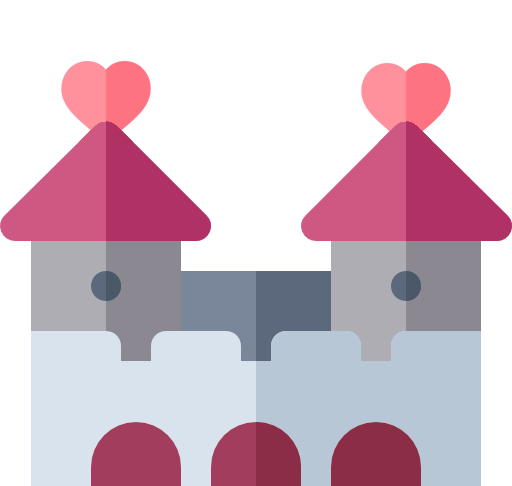
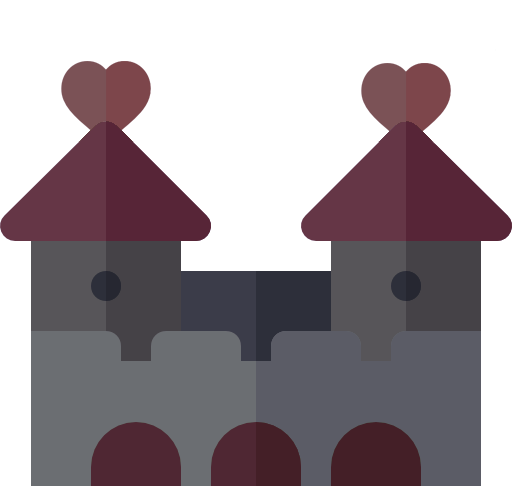
hatter new colours

diff --git a/hatter-music/index.html b/hatter-music/index.html
@@ -10,41 +10,44 @@
     <meta name="viewport" content="width=device-width, initial-scale=1" />
     <link rel="icon" type="image/png" href="mush.png" />
     <style>
-      body { margin:0; padding:0; color:#2A375C; -webkit-touch-callout: none; -webkit-user-select: none; -khtml-user-select: none; -moz-user-select: none; -ms-user-select: none; user-select: none; }
+      body { margin:0; padding:0; color:#bbb; background:#28232B; -webkit-touch-callout: none; -webkit-user-select: none; -khtml-user-select: none; -moz-user-select: none; -ms-user-select: none; user-select: none; }
       #main { position:absolute; width:380px; top:350px; left:calc(50% - 192px); margin-bottom:30px; line-height:11px; }
-      #main2 { width:100%; border:1px solid #38456B; overflow:hidden; -webkit-border-radius: 5px; -moz-border-radius: 5px; border-radius: 5px; }
-      .b1, .b2, .b3, .b4, .b5, .b6 { display:block; float:left; padding:10px 10px; overflow:hidden; font-size:12px !important; letter-spacing:1px !important; font-family:arial !important; border-bottom:1px solid #38456B; cursor:default; }
-      .b1, .b3, .b5 { width:calc(33% - 21px); background:#CFD4E3; border-right:1px solid #38456B; font-weight:600; }
-      .b2, .b4, .b6 { width:calc(67% - 20px); background:#f7f7f7; }
+      #main2 { width:100%; border:1px solid #1A171C; overflow:hidden; -webkit-border-radius: 5px; -moz-border-radius: 5px; border-radius: 5px; }
+      .b1, .b2, .b3, .b4, .b5, .b6 { display:block; float:left; padding:10px 10px; overflow:hidden; font-size:12px !important; letter-spacing:1px !important; font-family:arial !important; border-bottom:1px solid #1A171C; cursor:default; }
+      .b1, .b3, .b5 { width:calc(33% - 21px); background:#362D38; border-right:1px solid #1A171C; font-weight:600; }
+      .b2, .b4, .b6 { width:calc(67% - 20px); background:#44434A; }
       .b3, .b4 { border-bottom:0px; }
-      .b5, .b6 { background:#F5CED9; }
-      #main #hatter { width:120px; position:absolute; margin:-175px 0px 0px 230px; z-index:2; }
-      #main #castle { width:300px; position:absolute; margin:-285px 0px 0px 20px; z-index:1; }
+      .b5, .b6 { background:#472C36; }
+      #main #hatter { width:120px; position:absolute; margin:-175px 0px 0px 240px; z-index:2; }
+      #main #castle { width:300px; position:absolute; margin:-285px 0px 0px 10px; z-index:1; }
       #main #mushwoom { width:30px; position:absolute; margin:-27px 0px 0px 324px; z-index:1; }
       #main #invisible { width:380px; height:250px; background:#000; opacity:0; position:absolute; margin:-250px 0px 0px 0px; z-index:3; }
-      a { text-decoration:none; font-weight:600; cursor:pointer; color:#2A375C; }
+      a { text-decoration:none; font-weight:600; cursor:pointer; color:#bbb; }
       @media only screen and (max-width: 600px) {
-      #main {top:280px;}
+        #main {top:280px;}
       }
       @media only screen and (max-width: 400px) {
-      #main { width:100%; left:0px; }
-      #main2 { -webkit-border-radius: 0px; -moz-border-radius: 0px; border-radius: 0px; border-left:0px; border-right:0px; }
-      #main #invisible { width:100%; }
+        #main { width:100%; left:0px; }
+        #main2 { -webkit-border-radius: 0px; -moz-border-radius: 0px; border-radius: 0px; border-left:0px; border-right:0px; }
+        #main #invisible { width:100%; }
       }
       @media only screen and (max-width: 380px) {
-      #main { width:100%; left:0px; top:266px; margin-bottom:30px; position:absolute; }
-      #main2 { -webkit-border-radius: 0px; -moz-border-radius: 0px; border-radius: 0px; border-left:0px; border-right:0px; }
-      .b1, .b3, .b5 { width:calc(100% - 20px); border-right:0px; }
-      .b2, .b4, .b6 { width:calc(100% - 20px); }
-      .sh { display:none; }
-      .b3 { border-bottom:1px solid #38456B; }
-      #main #hatter { margin:-180px 0px 0px 180px; }
-      #main #mushwoom { margin:-27px 0px 0px 50px; }
-      #main #invisible { width:100%; }
+        #main { width:100%; left:0px; top:266px; margin-bottom:30px; position:absolute; }
+        #main2 { -webkit-border-radius: 0px; -moz-border-radius: 0px; border-radius: 0px; border-left:0px; border-right:0px; }
+        .b1, .b3, .b5 { width:calc(100% - 20px); border-right:0px; }
+        .b2, .b4, .b6 { width:calc(100% - 20px); }
+        .sh { display:none; }
+        .b3 { border-bottom:1px solid #1A171C; }
+        #main #hatter { margin:-180px 0px 0px 220px; }
+        #main #mushwoom { margin:-27px 0px 0px 50px; }
+        #main #invisible { width:100%; }
+      }
+      @media only screen and (max-width: 340px) {
+        #main #hatter { margin:-180px 0px 0px 190px; }
       }
       @media only screen and (max-height: 640px) {
-      #main { top:266px; margin-bottom:30px; }
-      #main #invisible { width:100%; }
+        #main { top:266px; margin-bottom:30px; }
+        #main #invisible { width:100%; }
       }
     </style>
   </head>
@@ -70,7 +73,7 @@
         <div class="b1">hat#help</div>
         <div class="b2">view his command guide</div>
         <div class="b1">hat#play ?</div>
-        <div class="b2">stream video or play local audio</div>
+        <div class="b2">stream youtube or local media</div>
         <div class="b1">hat#tracks</div>
         <div class="b2">view his local track list</div>
         <div class="b1">hat#np</div>
@@ -83,6 +86,8 @@
         <div class="b2">skip to next queue item</div>
         <div class="b1">hat#q ?</div>
         <div class="b2">add a track to the queue</div>
+        <div class="b1">hat#showq</div>
+        <div class="b2">show the queue</div>
         <div class="b1">hat#clearq</div>
         <div class="b2">clear the queue</div>
         <div class="b1">hat#dc</div>
